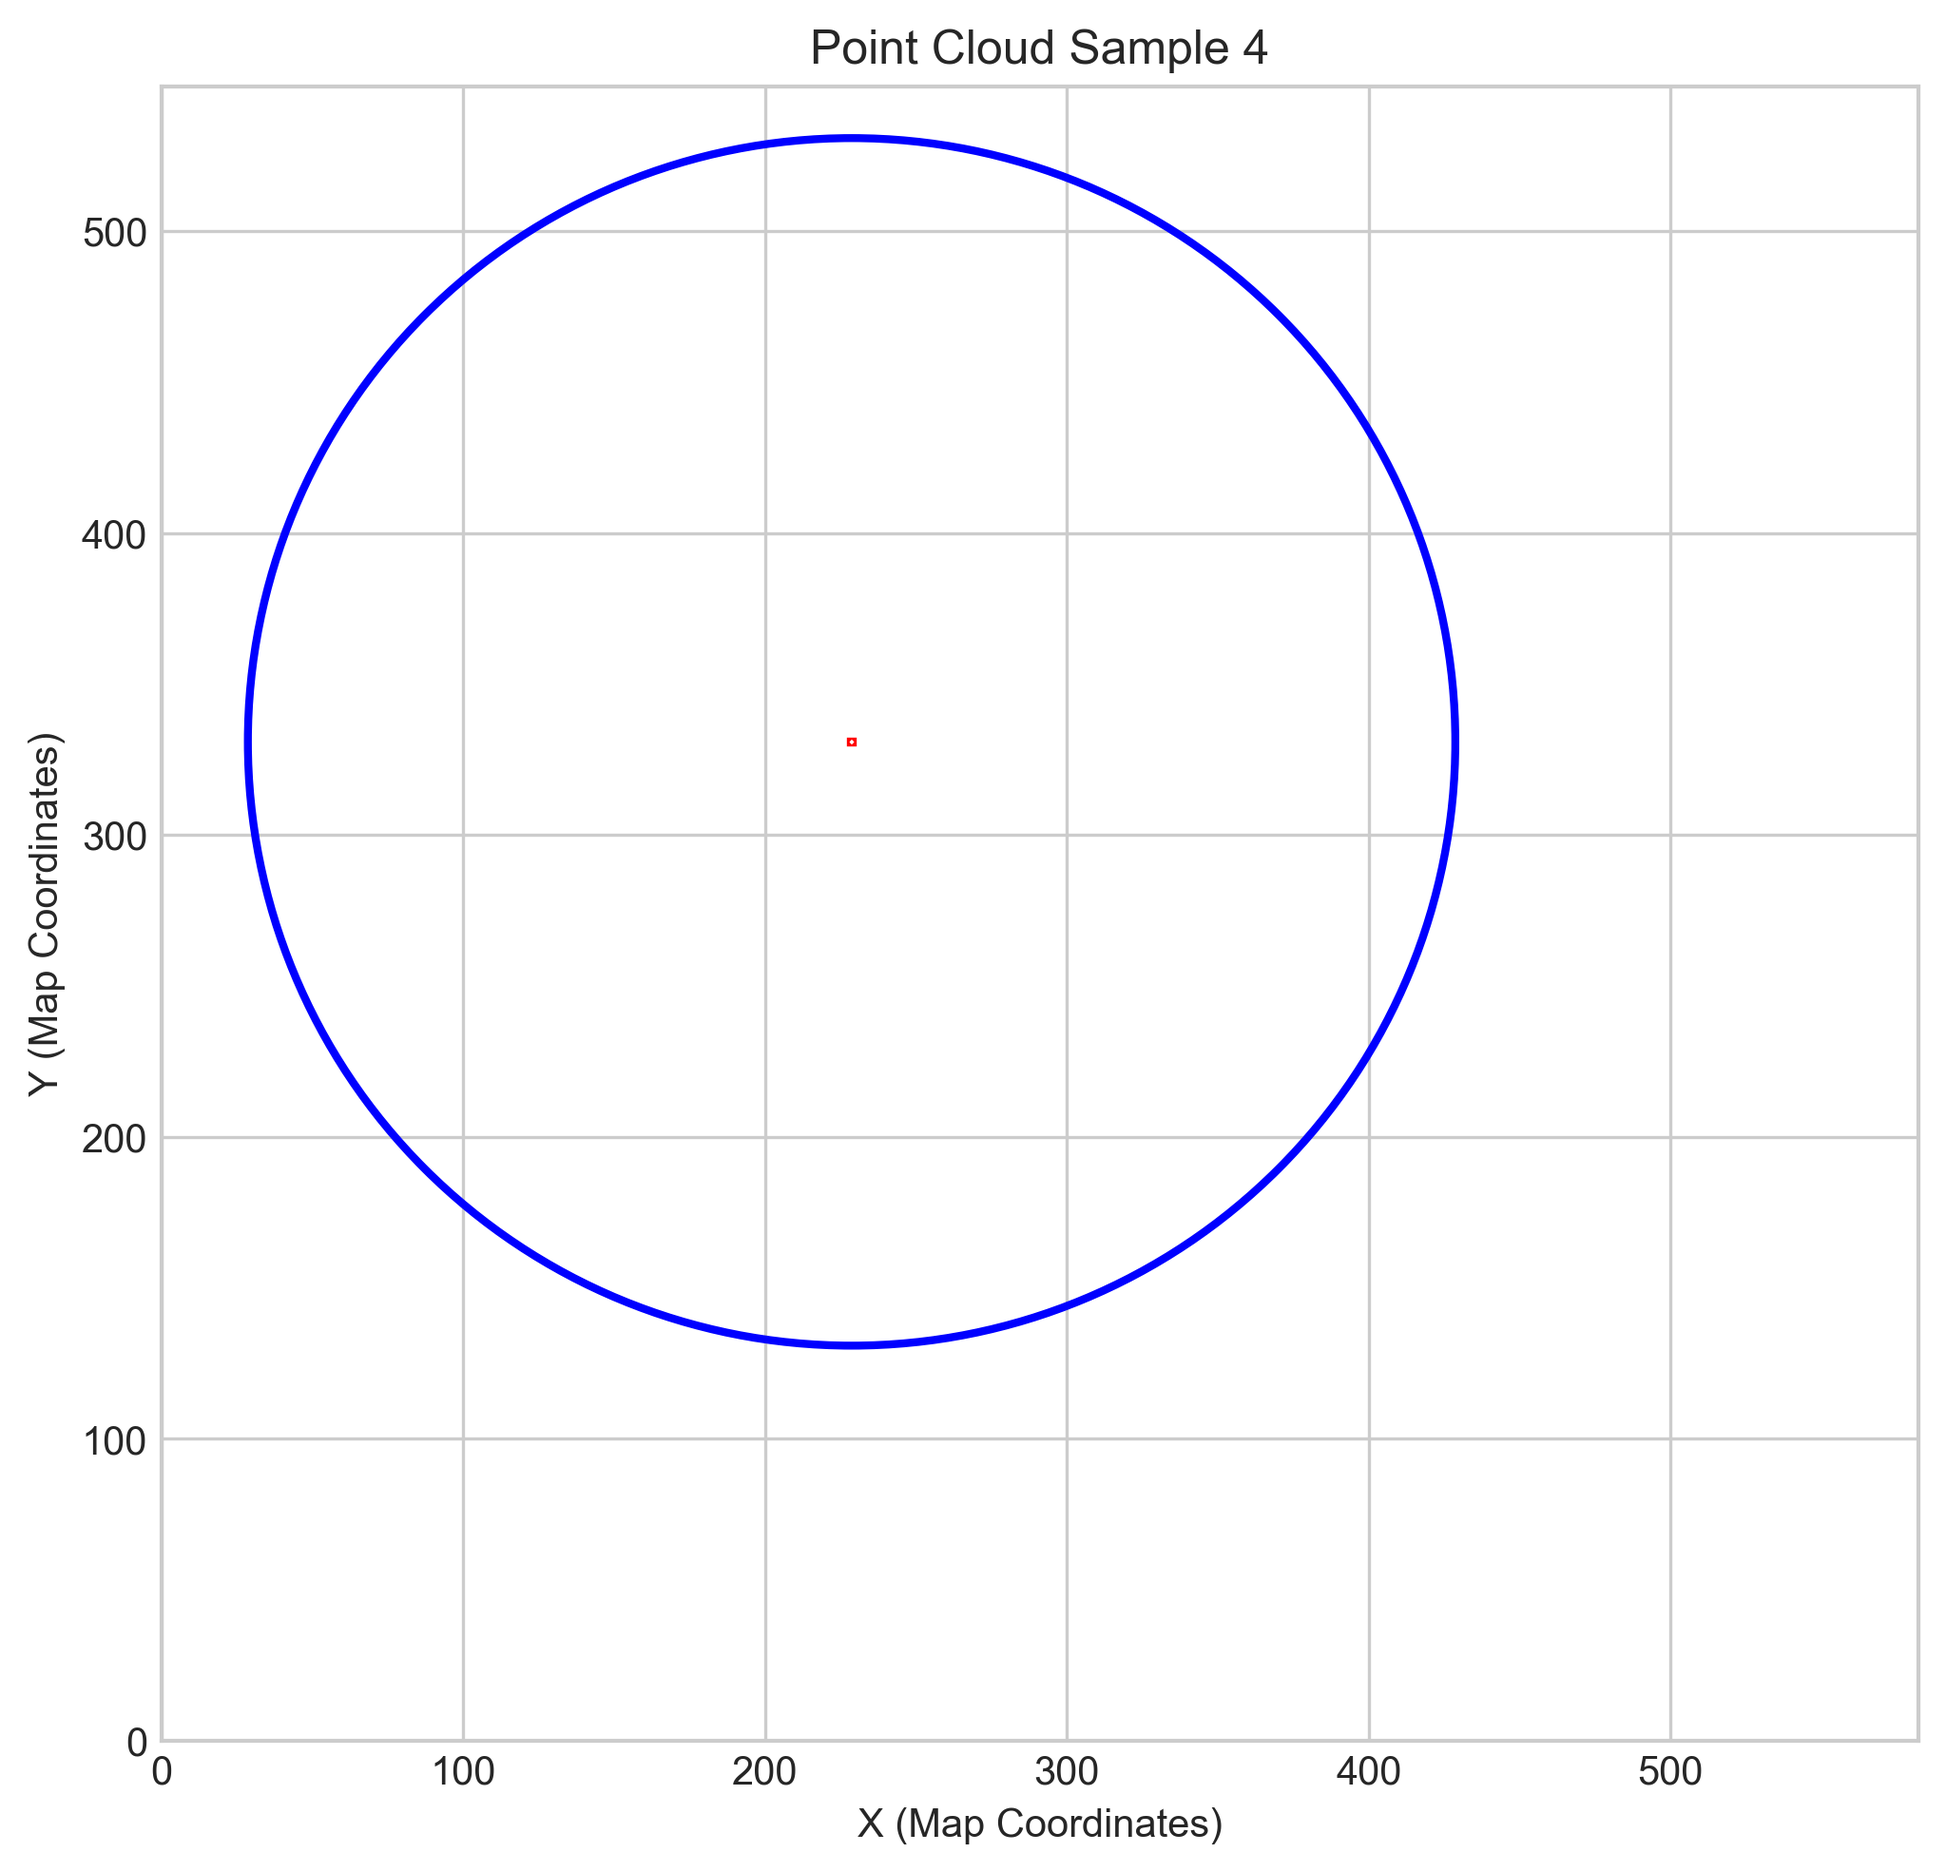
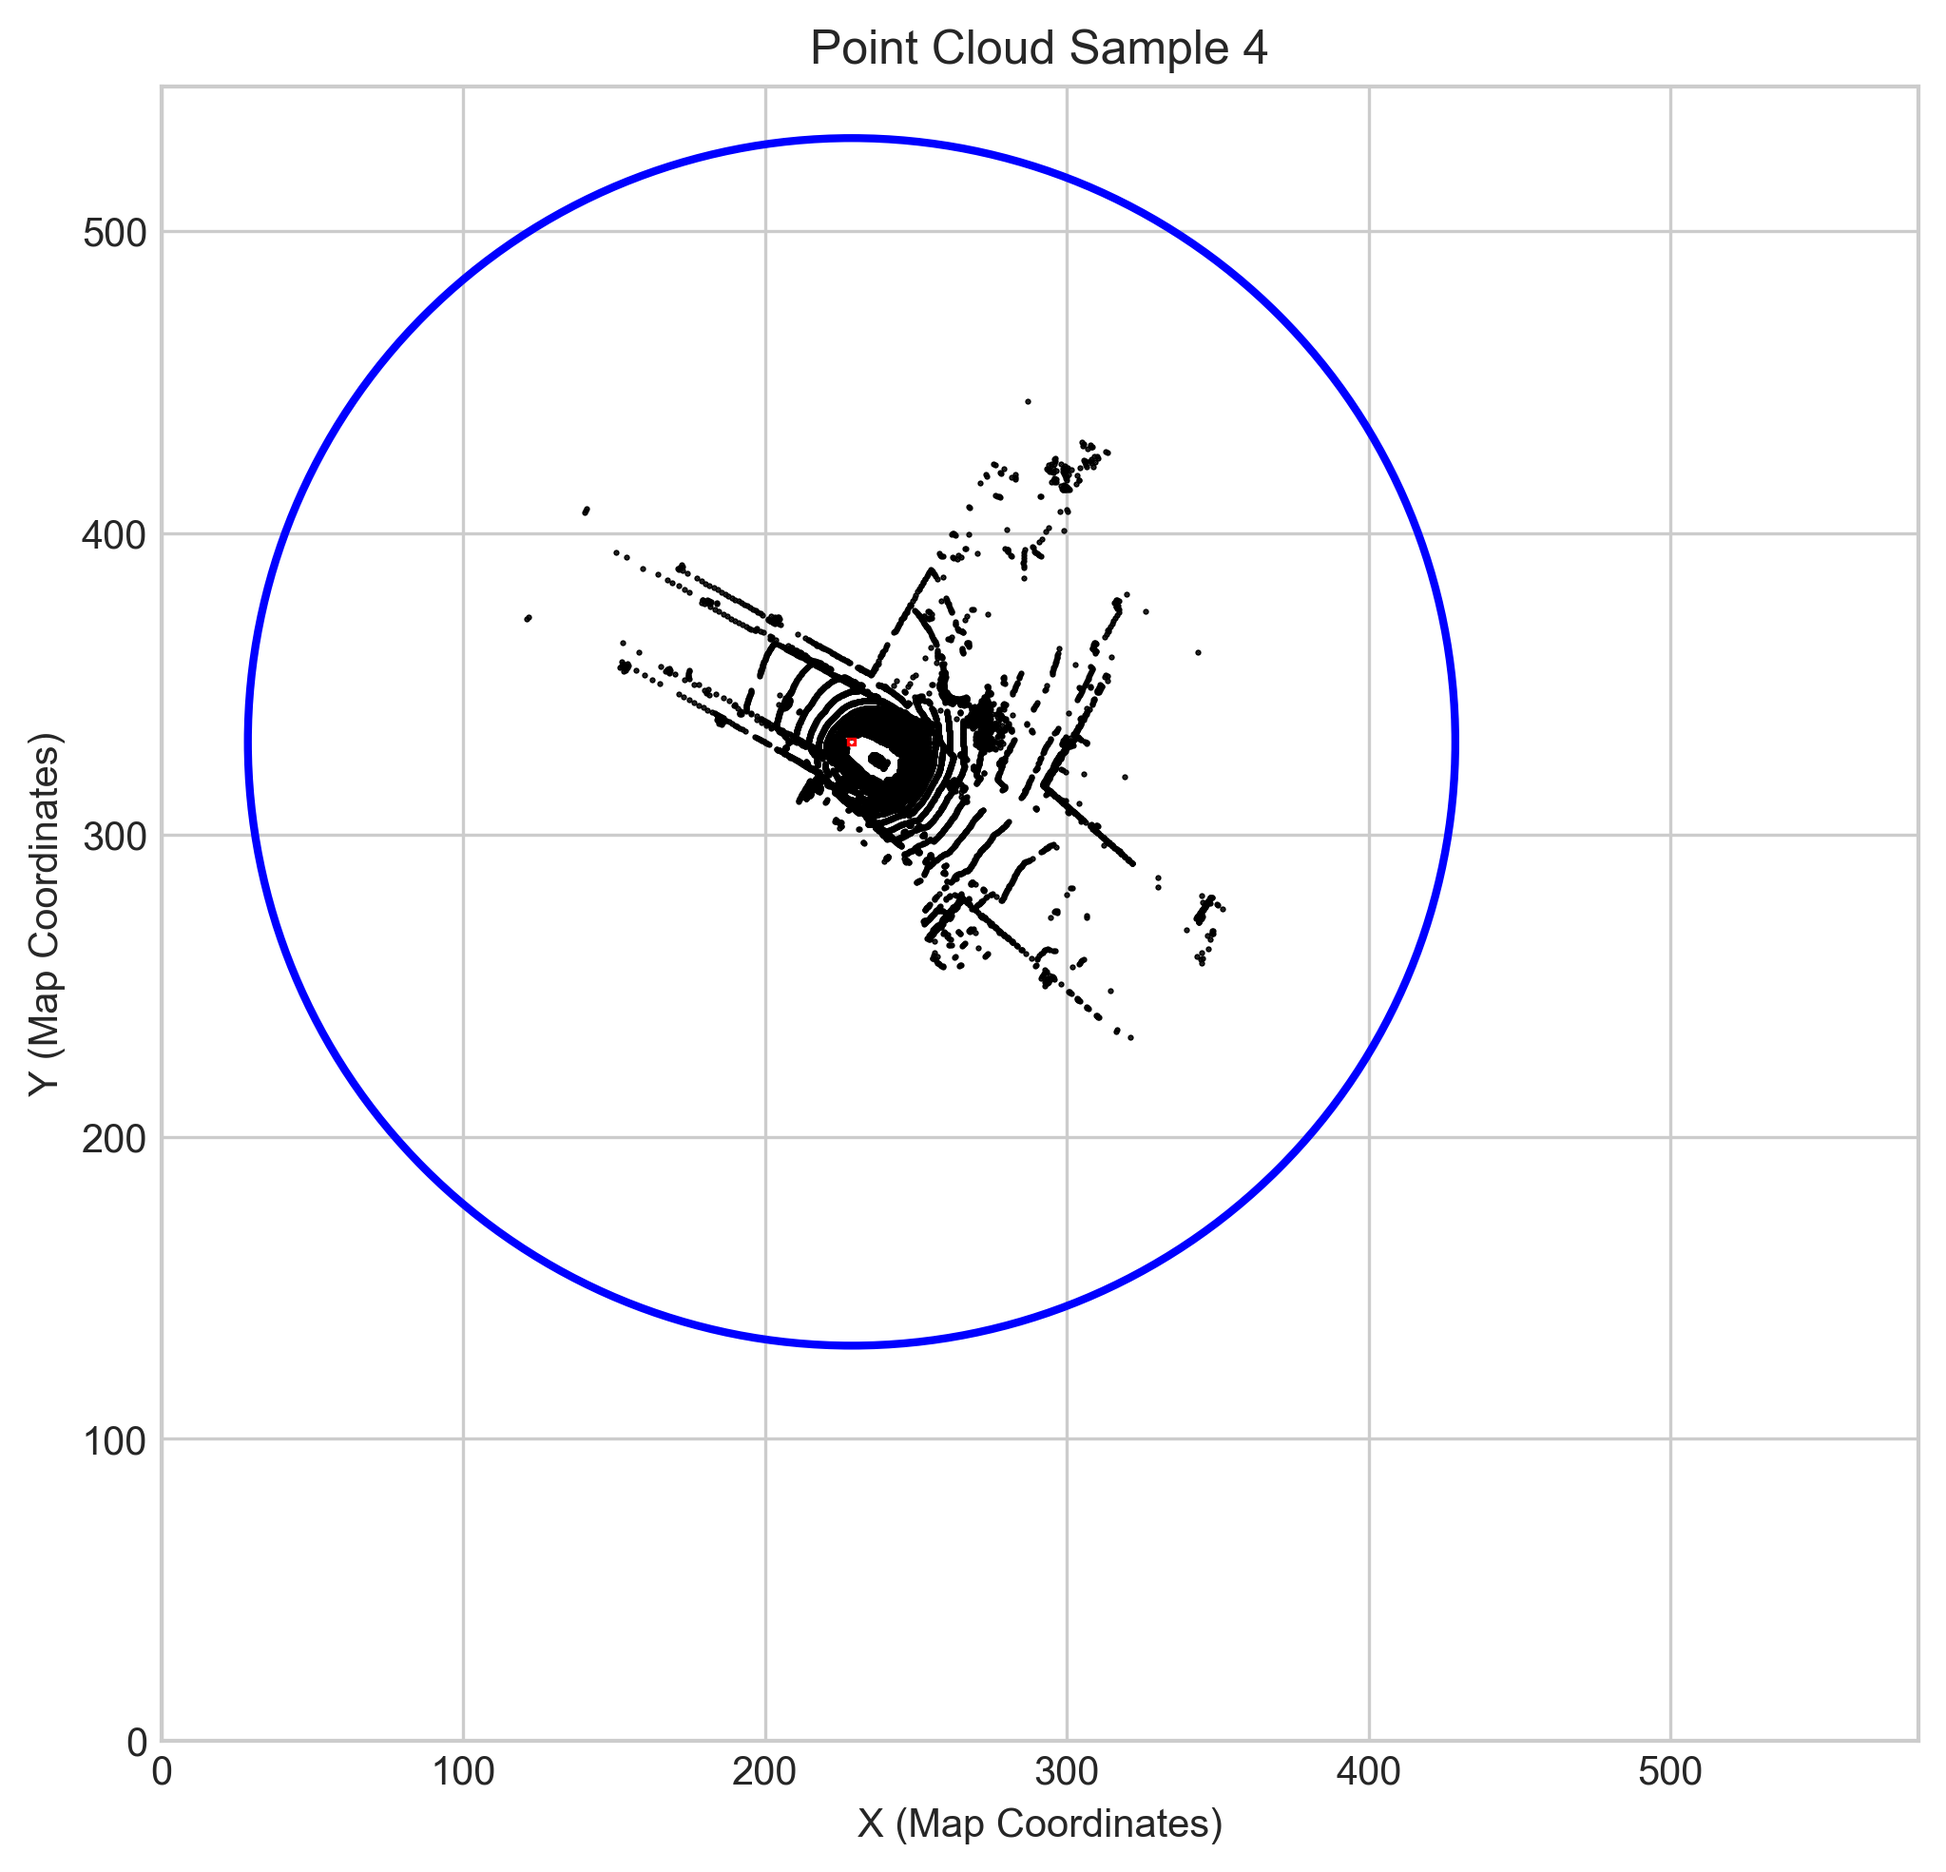
cost for const

Changed region(s): [[0.3385, 0.2788, 0.5848, 0.5267], [0.4924, 0.2478, 0.554, 0.3098], [0.6155, 0.4647, 0.6463, 0.4957]]

diff --git a/Scripts/Power.py b/Scripts/Power.py
@@ -50,19 +50,21 @@ class power:
         
         self._curr_sample = curr_sample
         self._curr_sample_index = curr_sample_index
+
+        cells = self.map.grid.circle_of_interrest(self.max_range,self.ego[self._curr_sample_index])
+        cones = self.assign_cell_to_cone(cells)
+        total_risk = 0
+        total_risk_per_cone = np.zeros(self.n_cones)
+        for cone_id, cone_cells in cones.items():
+            for cell,distance in cone_cells:
+                risk_cell = cell.total_risk[self._curr_sample_index]
+
+                total_risk+=risk_cell
+                total_risk_per_cone[cone_id] +=risk_cell
         if self.constant_power == True:
             self.p_optimal = [self.power_procent*self.p_max]*self.n_cones
-        else:    
-            cells = self.map.grid.circle_of_interrest(self.max_range,self.ego[self._curr_sample_index])
-            cones = self.assign_cell_to_cone(cells)
-            total_risk = 0
-            total_risk_per_cone = np.zeros(self.n_cones)
-            for cone_id, cone_cells in cones.items():
-                for cell,distance in cone_cells:
-                    risk_cell = cell.total_risk[self._curr_sample_index]
-
-                    total_risk+=risk_cell
-                    total_risk_per_cone[cone_id] +=risk_cell
+            self.cost(self.p_optimal, cones)
+        else: 
             p = np.zeros(self.n_cones)
             p_intial = np.zeros(self.n_cones)
 
